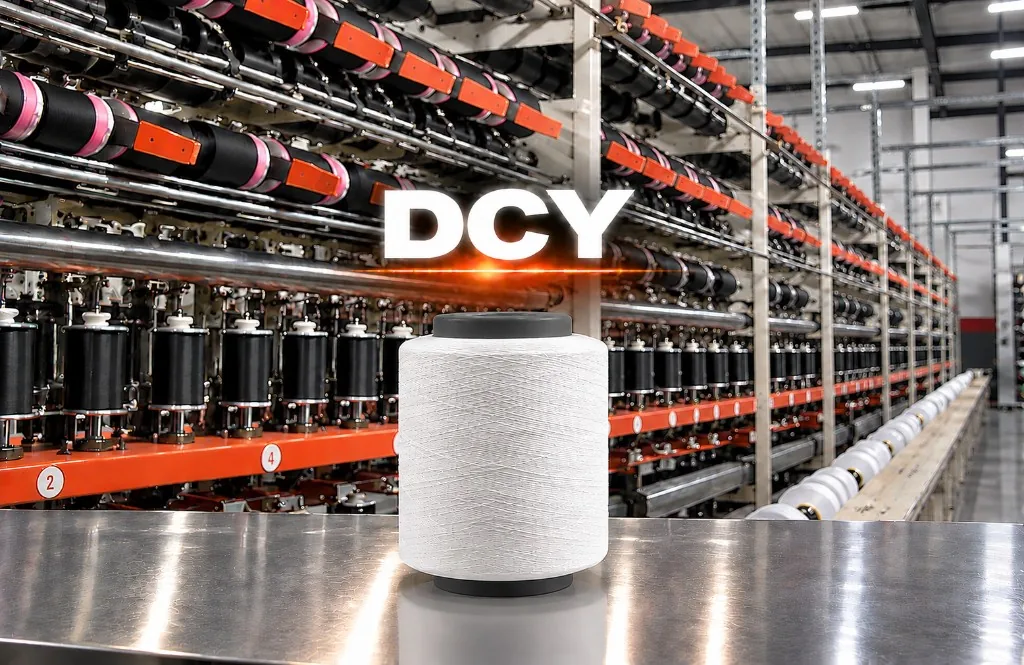
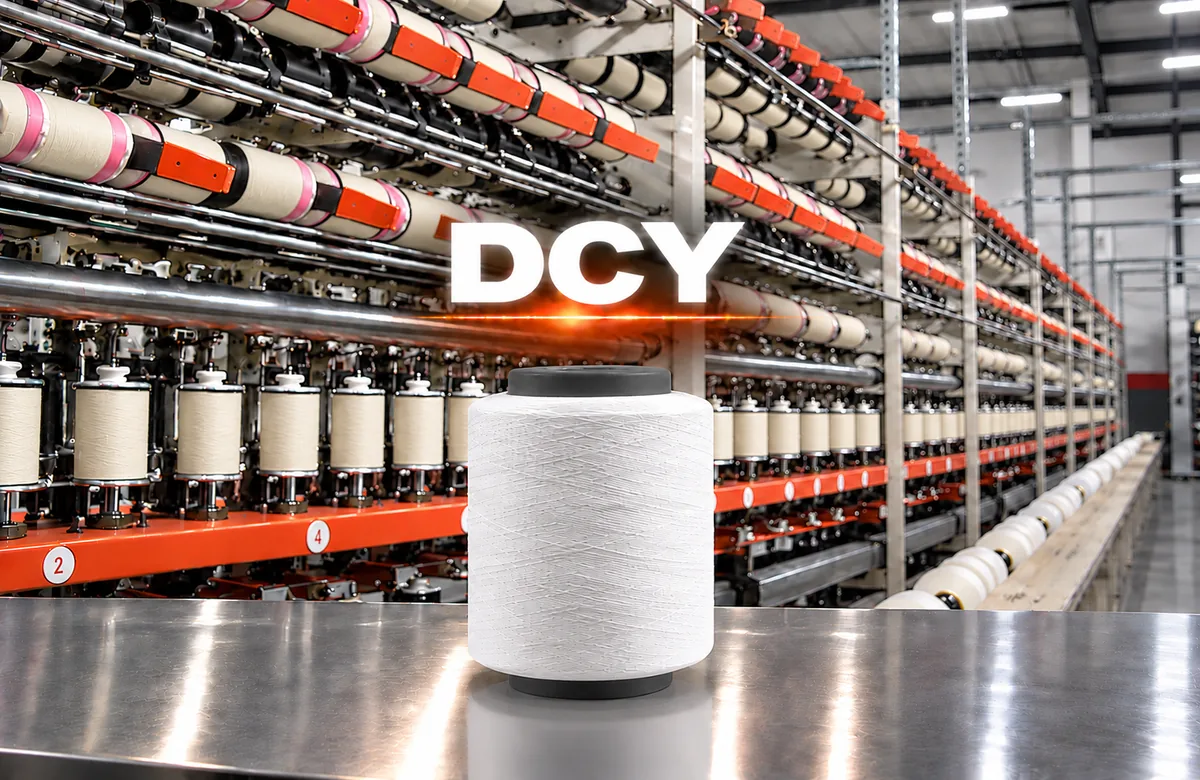
4 ürün görseli arkaplan revize

diff --git a/src/config/hero-marquee.ts b/src/config/hero-marquee.ts
@@ -54,7 +54,7 @@ const allProducts: MarqueeItem[] = [
     label: "Naylon 6 SCY",
     summary: "Tek kaplama (single covered) PA6 + elastan.",
     href: "/urunlerimiz/n6-scy",
-    src: "/images/hero/iplik/scy-n6.webp?v=2",
+    src: "/images/hero/iplik/scy-n6.webp?v=5",
     code: "SCY",
   },
   {
@@ -62,7 +62,7 @@ const allProducts: MarqueeItem[] = [
     label: "Naylon 6 DCY",
     summary: "Çift kaplama (double covered) PA6 + elastan.",
     href: "/urunlerimiz/n6-dcy",
-    src: "/images/hero/iplik/dcy-n6.webp?v=2",
+    src: "/images/hero/iplik/dcy-n6.webp?v=5",
     code: "DCY",
   },
   {
@@ -102,7 +102,7 @@ const allProducts: MarqueeItem[] = [
     label: "Naylon 6,6 SCY",
     summary: "Tek kaplama PA66 + elastan. Flat seçenekler dahil.",
     href: "/urunlerimiz/n66-scy",
-    src: "/images/hero/iplik/scy-n66.webp?v=2",
+    src: "/images/hero/iplik/scy-n66.webp?v=5",
     code: "SCY",
   },
   {
@@ -110,7 +110,7 @@ const allProducts: MarqueeItem[] = [
     label: "Naylon 6,6 DCY",
     summary: "Çift kaplama PA66 + elastan. Custom üretim.",
     href: "/urunlerimiz/n66-dcy",
-    src: "/images/hero/iplik/dcy-n66.webp?v=3",
+    src: "/images/hero/iplik/dcy-n66.webp?v=5",
     code: "DCY",
   },
   {

diff --git a/src/components/sections/products-grid.tsx b/src/components/sections/products-grid.tsx
@@ -205,13 +205,13 @@ export function ProductsGrid({ lines, contactEmail }: ProductsGridProps) {
 
       <p className="text-body mt-12 text-sm">
         {copy.products.quoteLine}{" "}
-        <MailLink
-          email={contactEmail}
-          subject={copy.products.quoteLine}
+        {/* mailto + konu: tıklanınca mail uygulamasında bu adrese yeni ileti açılır */}
+        <a
+          href={`mailto:${contactEmail}?subject=${encodeURIComponent(copy.products.quoteLine)}`}
           className="font-semibold text-brand-orange hover:underline active:underline"
         >
           {contactEmail}
-        </MailLink>
+        </a>
         .
       </p>
     </div>

diff --git a/src/content/catalog/lines.ts b/src/content/catalog/lines.ts
@@ -30,9 +30,9 @@ function mapLine(
     code: entry.code,
     kind,
     // Boş string = görsel yok (başka üründen kopya kullanma)
-    // ?v=3: aynı dosya adı tarayıcıda eski görseli tutmasın.
+    // ?v=5: aynı dosya adı tarayıcıda eski görseli tutmasın.
     src: entry.imageSrc?.trim()
-      ? `${entry.imageSrc.trim()}?v=4`
+      ? `${entry.imageSrc.trim()}?v=5`
       : undefined,
     colors: entry.colors.length ? [...entry.colors] : undefined,
     recycled: entry.recycled || undefined,
